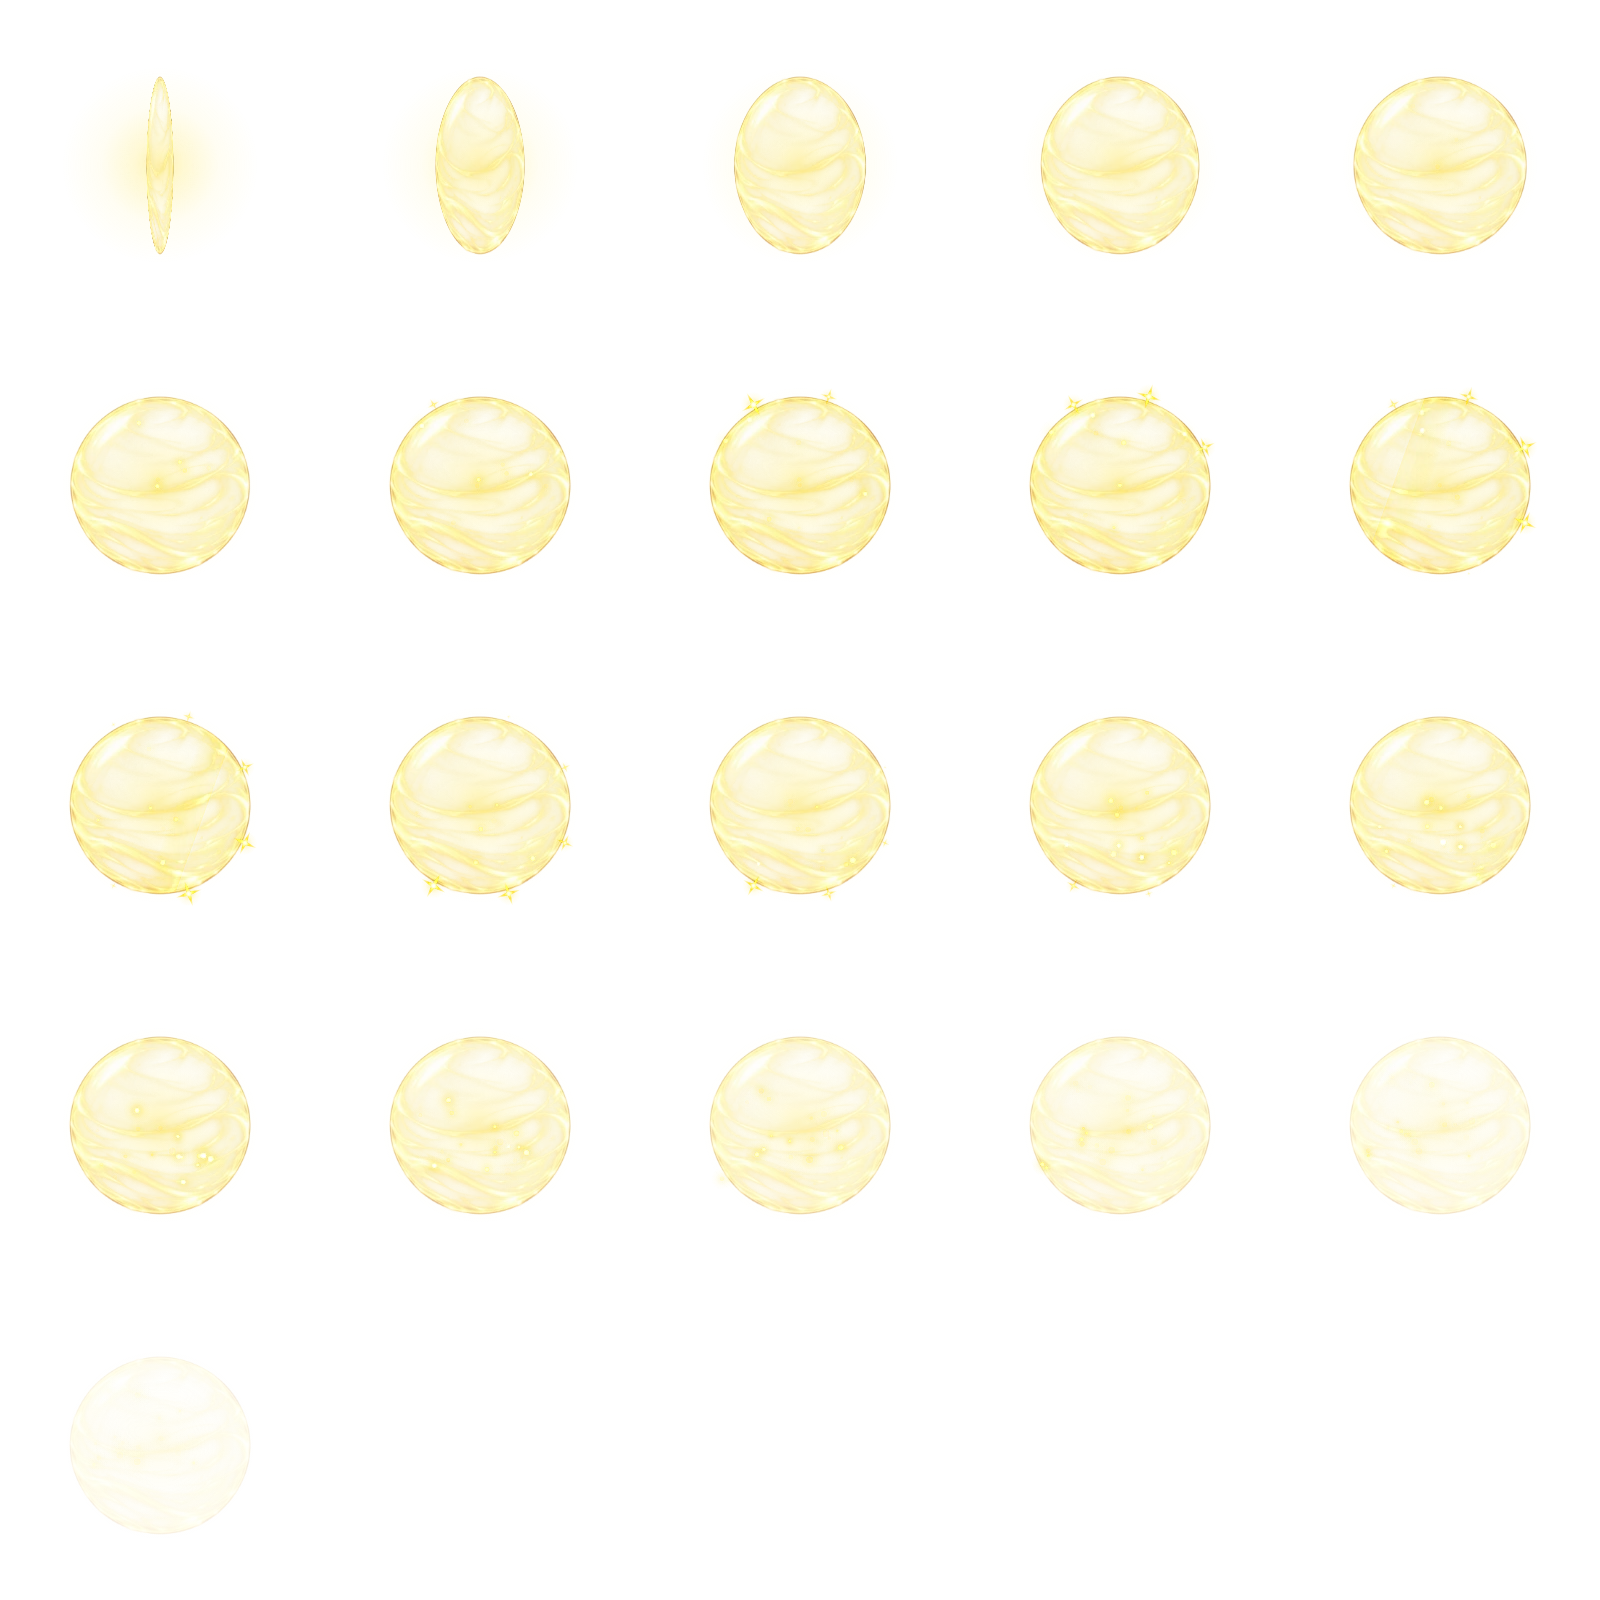
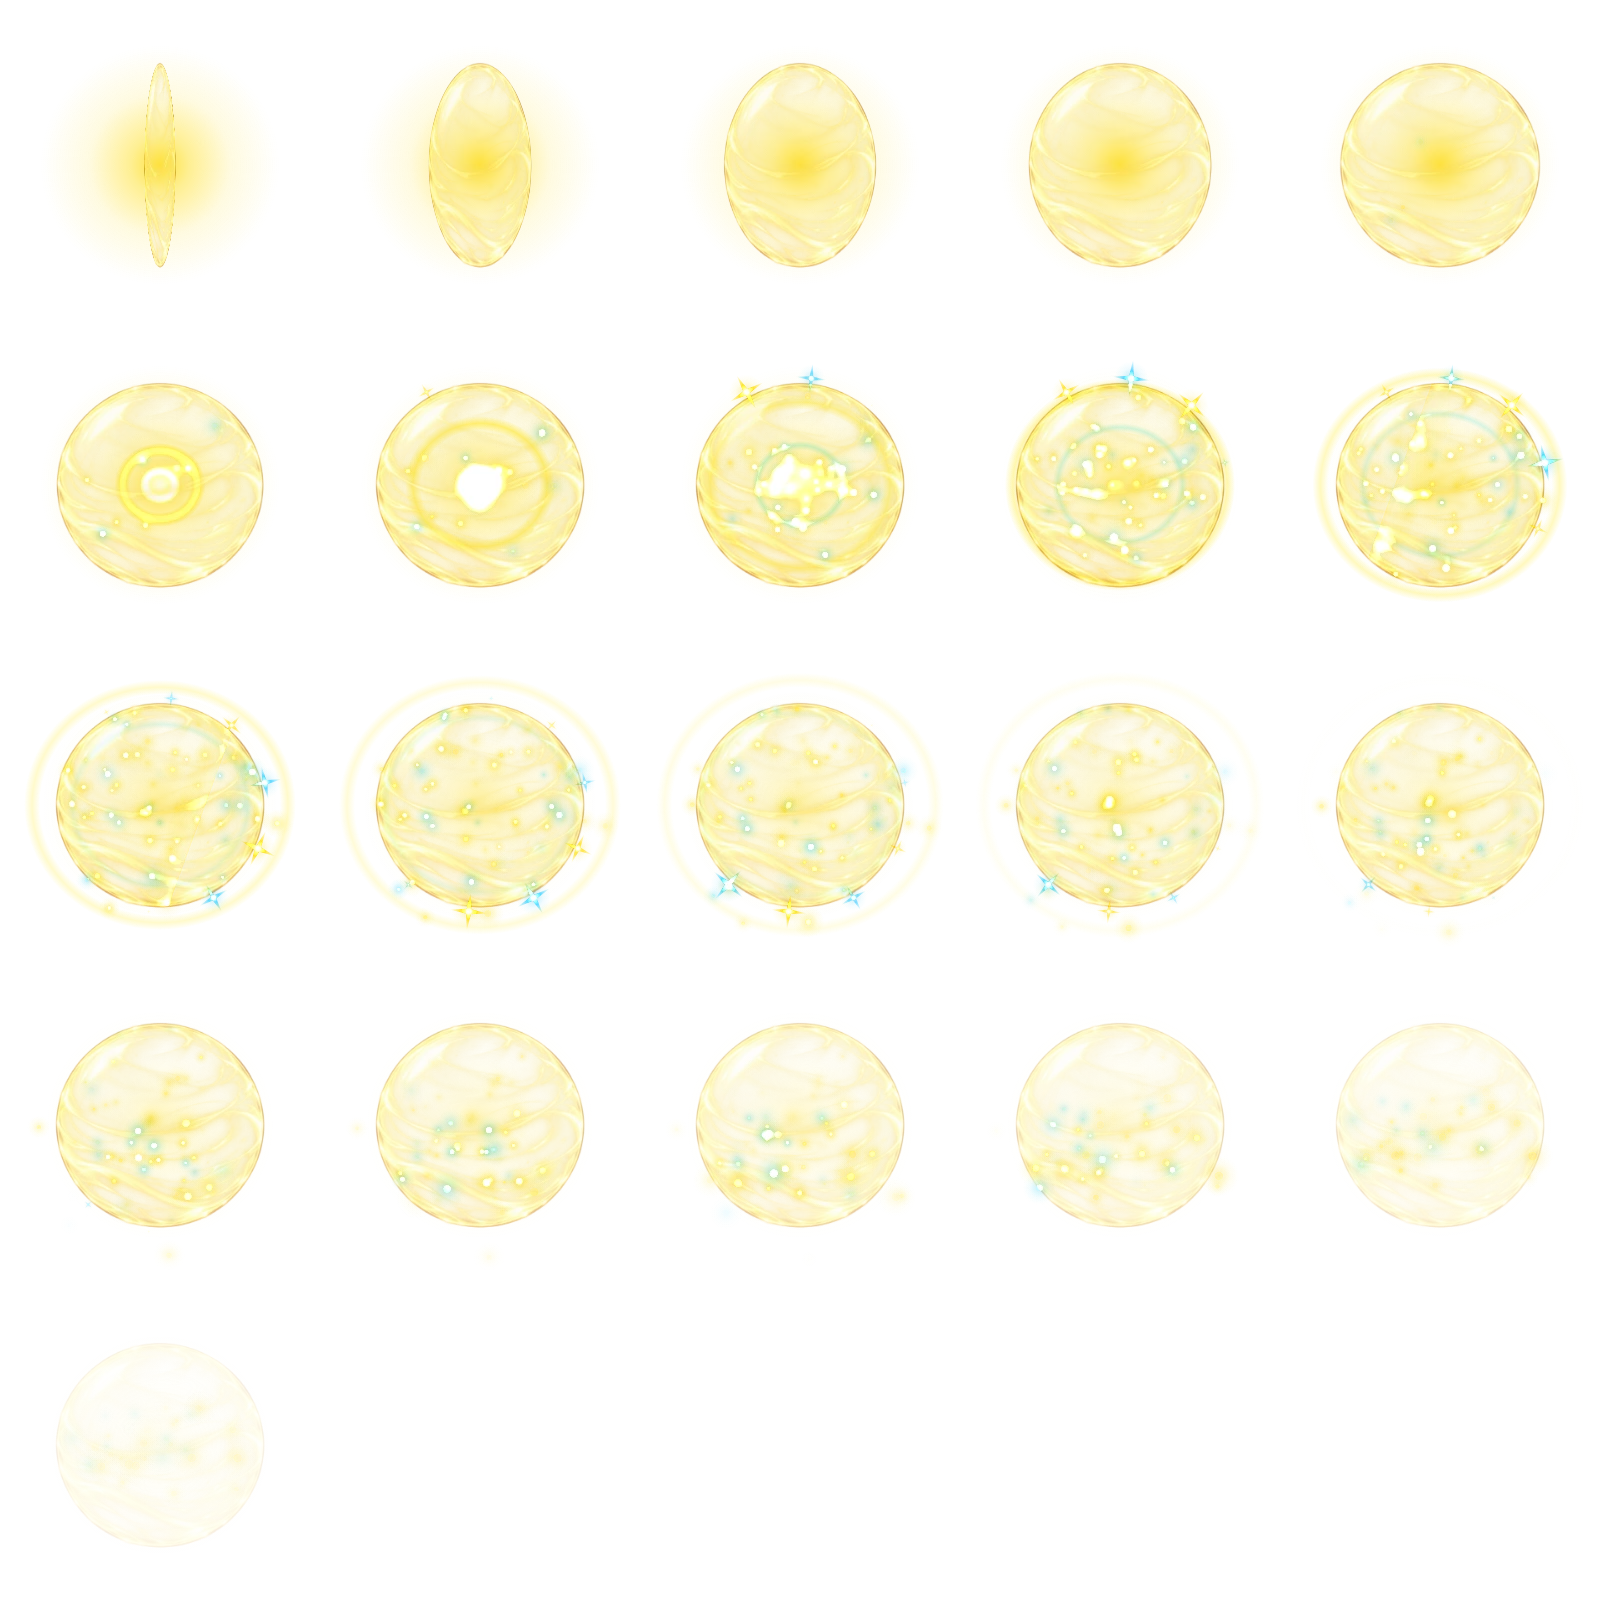
Warder polish: seal shows as a timer circle, skill effects fill the cell (#266)
Seal: the board-seal picture (which shrank when it sat under a shield circle)
is replaced by a lemon circle with the seconds left, same size as the shield
and guard circles, in the same left column.
Effects: all eight warder skills now draw their main shape about a full cell
wide (logical 100, 320px), with a pale sky-blue accent in particles, rings and
glints, a flash + shock ring on impact and ~1.5x the particles. Veil's melting
top edge is feathered.

diff --git a/src/battle/board.ts b/src/battle/board.ts
@@ -18,13 +18,12 @@ import type { TotemKind } from '../engine/types';
 import type { HeroKey } from '../data/heroes';
 import { asleep, CONSTELLATION, starMax, starsNow } from '../engine/astro';
 import { raining } from '../engine/shaman';
-import { sealed } from '../engine/warder';
 import { emblemColor } from '../screens/art';
 import { CLASS_GLYPH, CUT, EDGE, LINE } from '../screens/class-icons';
 import { FACTIONS, type FactionKey } from '../data/places';
 import { addArtName, RELAY_D, emblemSrc, holeArtName, ringArtName, soulArtName, zoneArtName, bossFxArt, bossFxArts, darkArt, debuffFxArt, tideArtName, tideTail } from './art';
 import { $, B, DEB, dirSlot, DIR_DEG, ROLE, S, SEL, ui } from './core';
-import { cellTypography, debuffDisplay, fitPartyName, guardTimersOf, hotTimersOf, hpLabelText, primaryDebuff, shieldTimerOf, type GuardTimerKey } from './party-display';
+import { cellTypography, debuffDisplay, fitPartyName, guardTimersOf, hotTimersOf, hpLabelText, primaryDebuff, sealTimerOf, shieldTimerOf, type GuardTimerKey } from './party-display';
 import { CELL_RADIUS, clearOf, fitBoard, floatBlocks, hotTimerLayout, shieldTimerLayout } from './board-layout';
 import { DEBUFF_EDGE, GIM_ICON, MARK_ART } from './board-marks';
 import { BOARDS } from '../data/boards';
@@ -1216,6 +1215,8 @@ const GUARD_COLOR: Record<GuardTimerKey, [number, number]> = {
   guardian: [0xeadfbe, 0x080605], bark: [0x8a5a2e, 0xffffff], soothe: [0x4fae8c, 0x080605],
   immune: [0xc3cad4, 0x080605], sacrifice: [0xc99320, 0x080605], sleep: [0x7a62d0, 0xffffff],
 };
+/** 결계사 인장 남은 시간 원 [채움, 숫자 색]: 결계사 레몬 노랑 + 짙은 호박 숫자 (2026-10-19 Lim, 예전 인장 그림 대신) */
+const SEAL_COLOR: [number, number] = [0xffd51f, 0x3d2a00];
 /**
  * 판 위 물건 (79 6-1, engine/totems): 칸 바닥 색 · 그림 이름 (80 5장 board-*, 오기 전엔 바닥 색 + 안쪽 테두리). 범위 = 테두리를 그릴 거리
  * stand = 바닥 무늬가 아니라 칸 위에 선 물건 (standL): 사람이 서 있어도 그 칸 가운데에 크게, 이름 · 체력 뒤.
@@ -1299,14 +1300,14 @@ const HERO_BOARD_ART: Partial<Record<HeroKey, string[]>> = {
   shaman: ['board-totem-spring', 'board-totem-earth', 'board-totem-spring-aura', 'board-totem-earth-aura', 'board-totem-rain', 'board-sea-spring'],
   monk: ['board-mist', 'board-mist-pool'],
   astrologer: ['board-star', 'board-star-mark', 'board-star-sleep', 'board-supernova'],
-  warder: ['board-seal', 'board-citadel'],
+  warder: ['board-citadel'],
 };
 /**
  * 칸 위에 얹는 그림의 그려진 부분 (192px 그림 중 폭 · 높이 비율, 80 5장 납품본을 잼). 판 가장자리에서 크기를 줄일 때 씀 (비율은 그대로)
  */
 const HERO_ART_BOX: Record<string, [number, number]> = {
   'board-totem-rain': [1, 0.65], // 2026-10-18 Codex로 다시 그림: 구름만 (Lim 「물방울은 이미지에서 제거하고 구름만, 이펙트로 비를 표현」)
-  'board-mist': [0.98, 0.49], 'board-seal': [0.85, 0.96],
+  'board-mist': [0.98, 0.49],
   'board-star-mark': [0.99, 0.79], 'board-star': [0.8, 0.96], 'board-star-sleep': [0.79, 1], // 결계 · 별의 잠 · 별자리 표식은 2026-10-16 굵게 다시 그림 (89)
 };
 /** 점성술사 모으는 별 (80 5장 board-star): 별 n개 자리 (칸 반지름 배, 대상 칸 가운데 기준). 차례로 선을 이음 */
@@ -1989,7 +1990,7 @@ export function render(now: number): void {
     const hotLayout = hotTimerLayout(s, hots.length);
     const shieldT = shieldTimerOf(u, F.t);
     // 칸 왼쪽 열 = 보호막 원 + 방어 생존기 원 (오른쪽 지속 힐 원 열을 뒤집은 자리 · 크기)
-    const guards = guardTimersOf(u, F.t, F.hero), leftN = (shieldT ? 1 : 0) + guards.length;
+    const guards = guardTimersOf(u, F.t, F.hero), sealLeft = sealTimerOf(u, F.t, F.hero), leftN = (shieldT ? 1 : 0) + guards.length + (sealLeft != null ? 1 : 0);
     const shieldLayout = shieldTimerLayout(s, Math.max(1, leftN));
     // 칸 = 직업 아이콘 · 닉네임 · 체력 (2026-10-07 Lim: 성격 배지는 칸에서 빼고 길게 누르기 정보에만). 「나」 = 직업 문장 (27 3-4)
     const em = u.me ? emblemTexture(F.hero) : null;
@@ -2065,7 +2066,7 @@ export function render(now: number): void {
     }
     // 보호막 시간 (2026-10-16 Lim): 지속 힐 원을 칸 왼쪽으로 뒤집은 자리 · 같은 크기, 짙은 파란 원 + 흰 숫자. 배지가 있으면 배지 왼쪽 같은 줄.
     // 방어 생존기 시간 (2026-10-18 Lim 「드루이드의 껍질처럼 … 왼쪽에 (도트힐이 오른쪽에 표시되는것처럼)」): 보호막 원 아래로 효과마다 색 원 + 남은 초, 지속 힐 원처럼 세로로.
-    // 왼쪽 위 열은 보호막 · 방어 생존기 원이 맨 위, 그 아래로 차례 번호표 · 빛의 전이 · 인장 · 별자리 표식 (leftY = 다음 것의 윗변)
+    // 왼쪽 위 열은 보호막 · 방어 생존기 · 결계사 인장 원이 맨 위, 그 아래로 차례 번호표 · 빛의 전이 · 별자리 표식 (leftY = 다음 것의 윗변)
     let leftY: number | null = null;
     if (leftN) {
       const sr = shieldLayout.radius, lower = sr + 0.75 + (leftN - 1) * shieldLayout.step;
@@ -2073,6 +2074,7 @@ export function render(now: number): void {
       const col = [
         ...(shieldT ? [{ key: `shield${u.id}`, kind: 'shield', left: shieldT.left, fill: C.shieldFill, fg: C.white }] : []),
         ...guards.map(g => ({ key: `guard${u.id}-${g.key}`, kind: 'guard', left: g.left, fill: GUARD_COLOR[g.key][0], fg: GUARD_COLOR[g.key][1] })),
+        ...(sealLeft != null ? [{ key: `seal${u.id}`, kind: 'seal', left: sealLeft, fill: SEAL_COLOR[0], fg: SEAL_COLOR[1] }] : []),
       ];
       col.forEach((c, i) => {
         const px = start.x, py = start.y + i * shieldLayout.step;
@@ -2190,10 +2192,10 @@ export function render(now: number): void {
       recordBound(`relay${u.id}`, 'relay', 'circle', p.x, p.y, dr * 2, dr * 2);
     }
     // 결계사 인장 · 점성술사 별자리 표식 (80 5장): 칸 왼쪽 위에 작게 (지속 치유 시간 원의 반대편, 보호막 원이 있으면 그 아래). 이름 · 체력 · 직업 아이콘은 그 자리 그대로, 글자 · 배지가 위에 그려짐
-    const sign = F.hero === 'warder' && sealed(F, u) ? 'board-seal' : F.hero === 'astrologer' && u.hots.some(h => h.key === 'starMark' && h.left > 0) ? 'board-star-mark' : '';
+    const sign = F.hero === 'astrologer' && u.hots.some(h => h.key === 'starMark' && h.left > 0) ? 'board-star-mark' : ''; // 결계사 인장은 왼쪽 열 원 (sealTimerOf)
     if (sign) {
-      const size = r * (sign === 'board-seal' ? 0.52 : 0.57) * (leftY != null ? 0.85 : 1), half = (size * HERO_ART_BOX[sign][1]) / 2; // 보호막 원 아래로 내려가면 이름에 덜 걸리게 조금 작게
-      heroArt(marks, sign, `hero-sign${u.id}`, x - r * 0.56, leftY != null ? leftY + 1 + half : y - r * 0.44, size, sign === 'board-seal' && u.seal! - F.t < 2 ? 0.5 + 0.5 * pulse : 1, true);
+      const size = r * 0.57 * (leftY != null ? 0.85 : 1), half = (size * HERO_ART_BOX[sign][1]) / 2; // 보호막 원 아래로 내려가면 이름에 덜 걸리게 조금 작게
+      heroArt(marks, sign, `hero-sign${u.id}`, x - r * 0.56, leftY != null ? leftY + 1 + half : y - r * 0.44, size, 1, true);
     }
     if (F.t < u.wrongUntil && F.t > u.wrongUntil - 0.6) pill(overTopG, labels, `q${u.id}`, x + r * 0.62, y - r * 0.05, '?', C.gold, C.dark, fs(0.28, 11));
     else if (F.t < u.mistakeUntil && F.t > u.mistakeUntil - 0.6) pill(overTopG, labels, `q${u.id}`, x + r * 0.62, y - r * 0.05, '!', 0xff5a3d, C.dark, fs(0.28, 11));

diff --git a/src/battle/pxf.ts b/src/battle/pxf.ts
@@ -131,14 +131,14 @@ export const PXF = {
   'shaman-rain-loop': loop(36, 75, 12),
   'shaman-sea-loop': loop(36, 84, 12, 256),
   // 결계사 (79 5-5 네모 결계, 2026-10-16 Lim 「흰색이라서 퀄리티가 더 떨어져보인다. 노란 발광의 빛이나게」→ 손그림풍 노란 빛): 인장 X · 도장 · 유리판 · 깨지는 유리 · 네 말뚝 · 도는 방패 · 가로 띠 · 창 · 망치
-  'warder-seal': skill(20, 92, { size: 320 }), // 2026-10-19 Lim 「결계사도 퀄리티 및 파티클 보강, 전면 개편」: Codex 그림이 또렷하게 288 ~ 320px
-  'warder-barrier': skill(22, 96, { size: 320 }),
-  'warder-cleanse': skill(18, 94, { size: 320 }),
-  'warder-circle': skill(20, 82, { size: 288 }),
-  'warder-guard': skill(22, 96, { size: 320 }),
-  'warder-veil': skill(24, 82, { size: 288 }),
-  'warder-hold': skill(20, 92, { size: 320 }),
-  'warder-judgment': skill(18, 88, { size: 288 }),
+  'warder-seal': skill(20, 100, { size: 320 }), // 2026-10-19 Lim 「결계사도 퀄리티 및 파티클 보강, 전면 개편」 → 「이펙트가 너무 작다, 파티원칸에 가득 차게」: 모두 logical 100 · 320px
+  'warder-barrier': skill(22, 100, { size: 320 }),
+  'warder-cleanse': skill(18, 100, { size: 320 }),
+  'warder-circle': skill(20, 100, { size: 320 }),
+  'warder-guard': skill(22, 100, { size: 320 }),
+  'warder-veil': skill(24, 100, { size: 320 }),
+  'warder-hold': skill(20, 100, { size: 320 }),
+  'warder-judgment': skill(18, 100, { size: 320 }),
   'warder-citadel-loop': loop(36, 84, 12, 256),
   // 모든 효과 PXF 1단계 (requests.md): 전투 공통 효과 (회색 그림은 색을 곱함)
   'common-hit': small(11, 74),

diff --git a/tests/party-display.test.ts b/tests/party-display.test.ts
@@ -1,5 +1,5 @@
 import { describe, expect, it } from 'vitest';
-import { cellTypography, debuffDisplay, fitPartyName, guardTimersOf, hotTimersOf, hpLabelText, primaryDebuff, shieldTimerOf } from '../src/battle/party-display';
+import { cellTypography, debuffDisplay, fitPartyName, guardTimersOf, hotTimersOf, hpLabelText, primaryDebuff, sealTimerOf, shieldTimerOf } from '../src/battle/party-display';
 import type { Debuff, Hot, Mod } from '../src/engine/types';
 
 const debuff = (extra: Partial<Debuff> = {}): Debuff => ({ id: 1, name: '부패', type: '질병', left: 4.1, ...extra });
@@ -87,6 +87,12 @@ describe('전투 칸 글자 크기', () => {
     expect(hpLabelText(1000, false, 5000)).not.toMatch(/\+/);
     const u = { mods: [{ k: 'absorb', v: 200.4, until: 9, src: 'healer' }, { k: 'absorb', v: 100, until: 5, src: 'gear' }, { k: 'absorb', v: 50, until: 1, src: 'gear' }] as unknown as Mod[] };
     expect(hpLabelText(1000, false, shieldTimerOf(u, 2)?.amt)).toBe('1301');
+  });
+  it('결계사 인장은 그림 대신 왼쪽 열 원 + 남은 초 (2026-10-19 Lim 「보호막 유지 시간처럼 단순하게」), 결계사 전투에서 붙어 있을 때만', () => {
+    expect(sealTimerOf({ seal: 18 }, 10, 'warder')).toBe(8);
+    expect(sealTimerOf({ seal: 9.9 }, 10, 'warder')).toBeNull();
+    expect(sealTimerOf({}, 10, 'warder')).toBeNull();
+    expect(sealTimerOf({ seal: 18 }, 10, 'priest')).toBeNull();
   });
   it('닉네임을 축소하지 않고 유니코드 문자를 보존해 말줄임한다', () => {
     const measure = (text: string) => Array.from(text).length * 11;

diff --git a/src/battle/party-display.ts b/src/battle/party-display.ts
@@ -50,6 +50,12 @@ export function guardTimersOf(u: Pick<Unit, 'guardian' | 'redu' | 'immune' | 'sa
 }
 
 /**
+ * 결계사 인장 남은 시간 (2026-10-19 Lim 「인장도 이미지 대신 보호막 유지 시간처럼 단순하게, 유지 시간 표시와 같은 크기」): 결계사 전투에서 인장이 붙어 있으면 남은 초, 아니면 null.
+ * 칸 왼쪽 열에서 보호막 원 · 방어 생존기 원 아래 같은 크기 원 (예전 인장 그림 board-seal은 다른 원과 같이 있을 때 작아져 크기가 들쭉날쭉했음)
+ */
+export const sealTimerOf = (u: Pick<Unit, 'seal'>, t: number, hero: HeroKey): number | null => (hero === 'warder' && u.seal != null && u.seal > t ? u.seal - t : null);
+
+/**
  * 칸 글자 크기 (판 그림 좌표). 모든 판이 5인 던전 칸 모양이라 (2026-10-16 Lim, 레이드 전용 작은 칸 없앰) 대상 폰에서 scale은 50 이상,
  * 10 · 20인은 판 전체를 줄여 그려 글자도 같은 비율로 작아짐
  */
